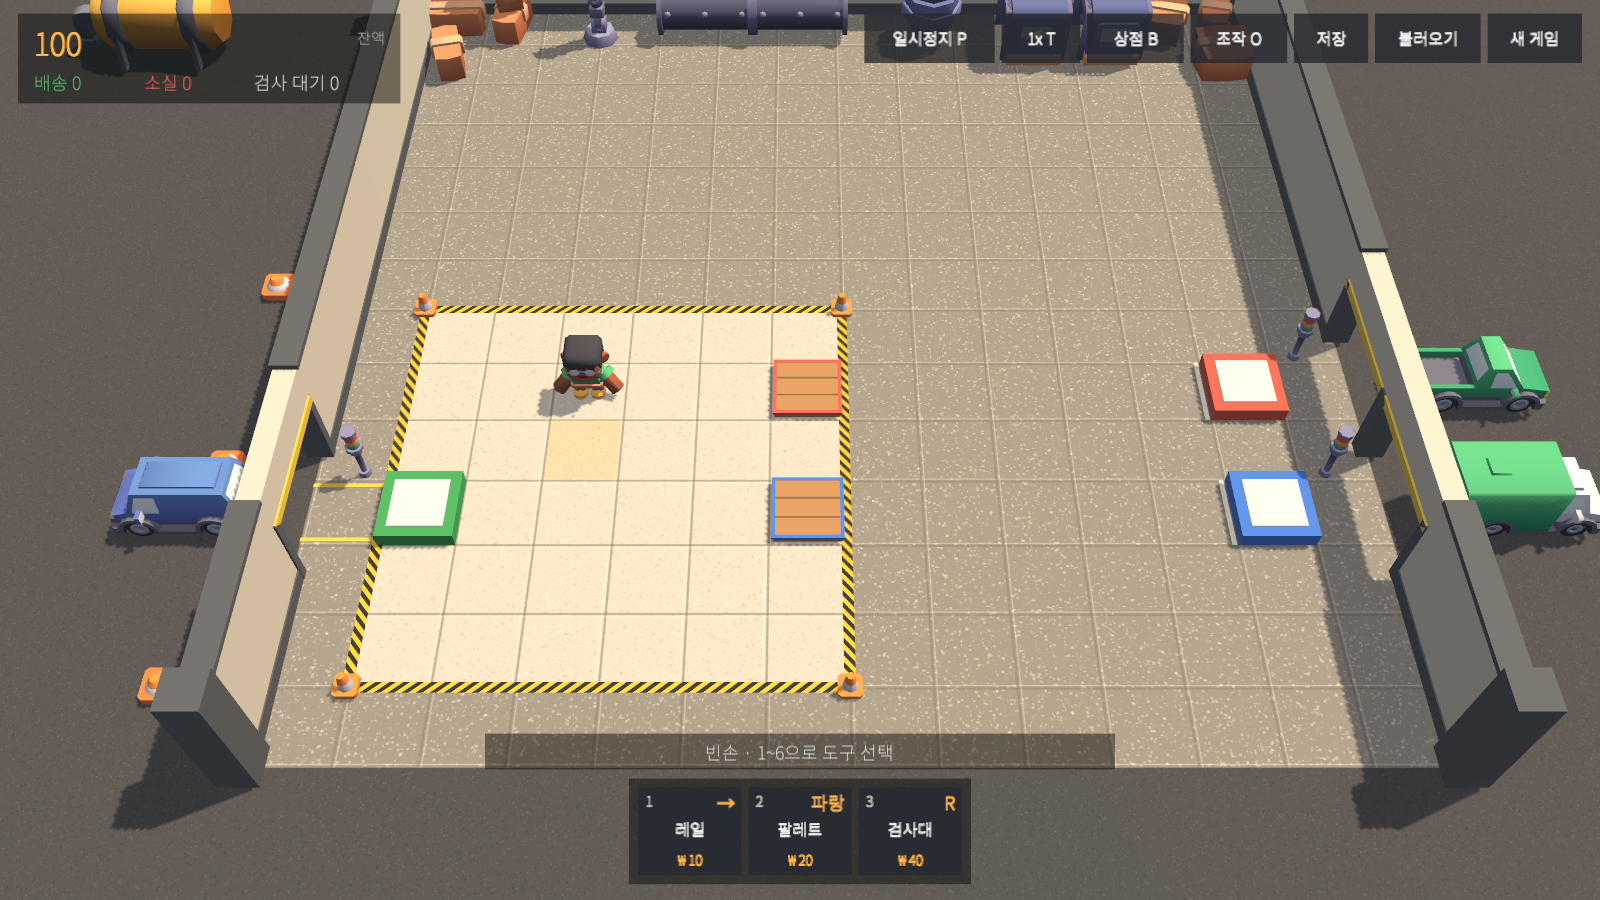
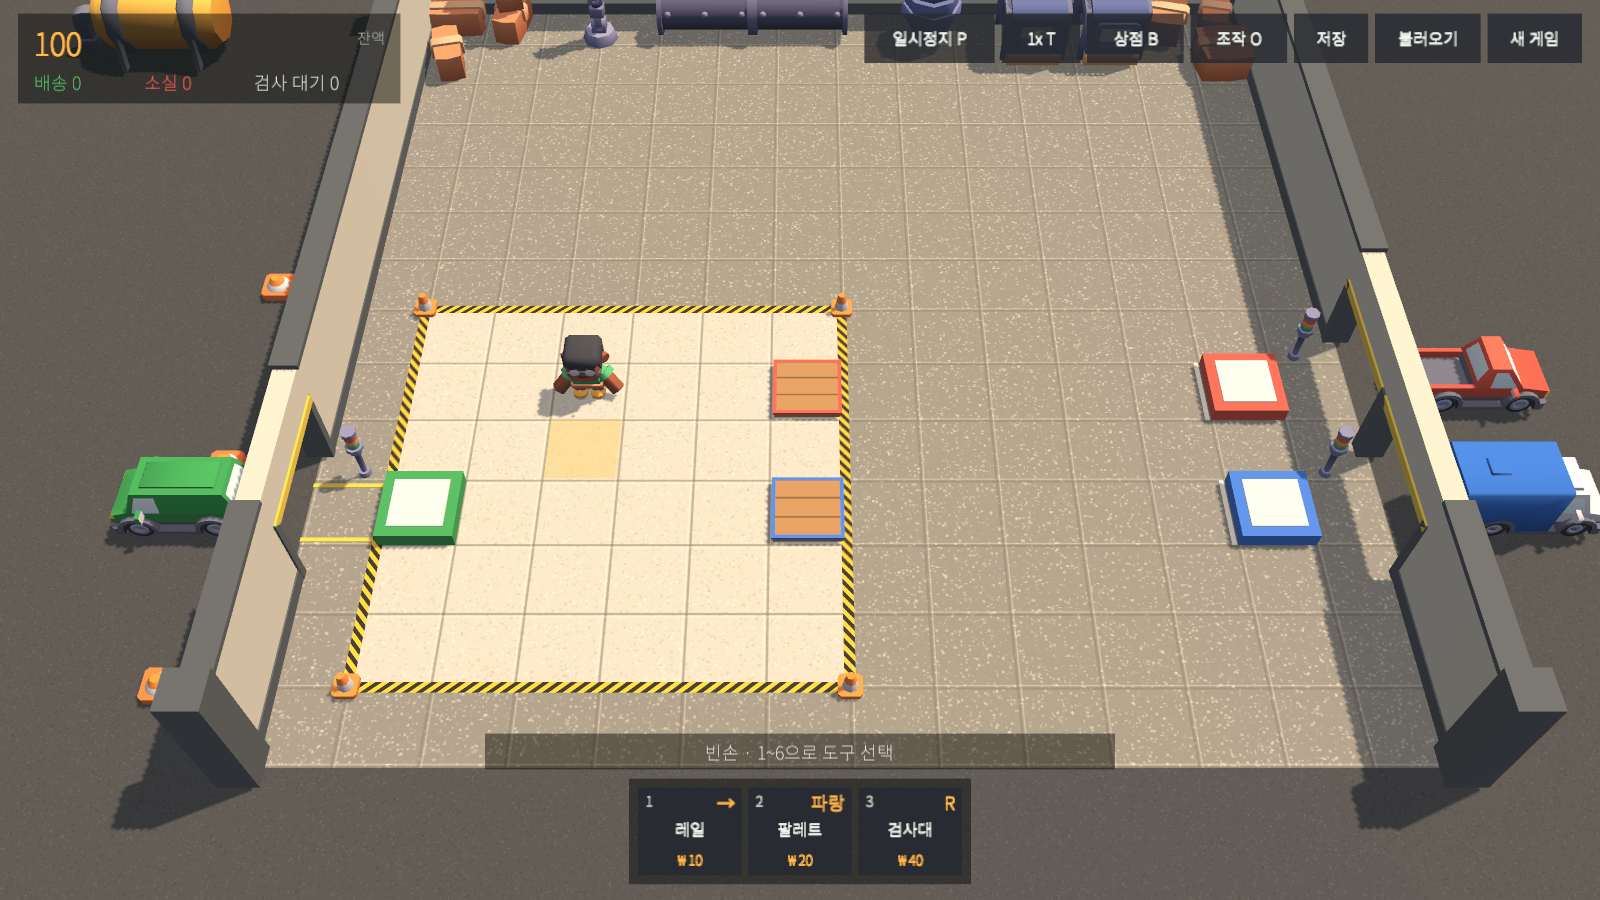
fix(game): pallet pile 2 per layer, vehicles painted in dock colours, clearer cursor
- PalletView: full-size boxes, 2 per layer at x ±0.22, up to 3 layers; TopHeight uses 2 per layer.
- WorldBuilder: inlet van green, outlet delivery blue, return truck red. Car-kit parts share one
  colormap material, so a per-vehicle copy of the colormap repaints only the body paint hue band
  and is used on the body renderer alone (windows, wheels, door untouched). The car-kit colormap
  is imported readable and uncompressed for this.
- Cursor alpha pulses 0.35-0.55; red tint for Locked kept.
- CannotPutHere toast: full / demolishing pallet / generic.
- Prompt above a pallet anchored at pile top + 0.3.
- Touch R button reads 색 with a pallet tool, 방향 otherwise.
- Smoke test counts active pile boxes and checks the 2-per-layer position.

Changed region(s): [[0.875, 0.3733, 1.0, 0.5911], [0.0625, 0.4978, 0.1562, 0.5911]]

diff --git a/Assets/Scripts/Game/WorldBuilder.cs b/Assets/Scripts/Game/WorldBuilder.cs
@@ -280,12 +280,12 @@ namespace ParcelFactory.Game
             var docks = Group("Docks");
             // 차량은 벽 밖 출입구 앞에 후진 주차한다(모델 앞 = +z 가정: 뒤가 출입구를 향하도록 yaw).
             // 트럭 도크(스펙 10.1)는 동쪽 벽 출입구 바로 안쪽 칸 (11,2)·(11,4). 좌표는 FactoryGrid에서만 읽는다.
-            Dock(docks, FactoryGrid.InletX, FactoryGrid.InletY, new Color(0.25f, 0.64f, 0.35f), "van", -8.5f, -90f, truck: false);
-            Dock(docks, FactoryGrid.OutletX, FactoryGrid.OutletY, new Color(0.24f, 0.48f, 0.88f), "delivery", 8.6f, 90f, truck: true);
-            Dock(docks, FactoryGrid.ReturnDockX, FactoryGrid.ReturnDockY, new Color(0.85f, 0.35f, 0.29f), "truck", 8.6f, 90f, truck: true);
+            Dock(docks, FactoryGrid.InletX, FactoryGrid.InletY, new Color(0.25f, 0.64f, 0.35f), "van", -8.5f, -90f, truck: false, Hex(0x3FA35A));
+            Dock(docks, FactoryGrid.OutletX, FactoryGrid.OutletY, new Color(0.24f, 0.48f, 0.88f), "delivery", 8.6f, 90f, truck: true, Hex(0x3D7BE0));
+            Dock(docks, FactoryGrid.ReturnDockX, FactoryGrid.ReturnDockY, new Color(0.85f, 0.35f, 0.29f), "truck", 8.6f, 90f, truck: true, Hex(0xD95A4A));
         }
 
-        private void Dock(Transform parent, int gx, int gy, Color color, string vehicle, float vehicleX, float vehicleYaw, bool truck)
+        private void Dock(Transform parent, int gx, int gy, Color color, string vehicle, float vehicleX, float vehicleYaw, bool truck, Color bodyColor)
         {
             var tile = Grid3D.Tile(gx, gy);
             var d = new GameObject("Dock_" + vehicle).transform;
@@ -295,7 +295,8 @@ namespace ParcelFactory.Game
             // 신호등은 격자 밖(격자 가장자리와 벽 사이 여백)에 둔다. 격자 안은 전부 걸을 수 있는 바닥이다(스펙 10.3).
             float side = Mathf.Sign(vehicleX);
             Spawn("warning-traffic", tile + new Vector3(side * 0.85f, 0f, 0.62f), Quaternion.identity, 0.6f, d);
-            Spawn(vehicle, new Vector3(vehicleX, 0f, tile.z), Quaternion.Euler(0f, vehicleYaw, 0f), 0.64f, d);
+            var car = Spawn(vehicle, new Vector3(vehicleX, 0f, tile.z), Quaternion.Euler(0f, vehicleYaw, 0f), 0.64f, d);
+            TintVehicle(car, vehicle, bodyColor);
 
             if (truck)
             {
@@ -315,6 +316,68 @@ namespace ParcelFactory.Game
                     Box("Lane", d, new Vector3(cx, 0f, tile.z + 0.42f), new Vector3(len, 0.012f, 0.06f), laneMat, castShadow: false);
                 }
             }
+        }
+
+        // ---------------- 차량 도색 ----------------
+
+        /// <summary>Kenney car-kit 차체의 원래 도장 색(팔레트 텍스처에서 차체 면적이 가장 큰 유채색). 이 색상(hue) 띠만 다시 칠한다.</summary>
+        private static readonly Dictionary<string, Color32> BodyPaint = new Dictionary<string, Color32>
+        {
+            { "van", new Color32(101, 142, 214, 255) },      // 파랑
+            { "delivery", new Color32(90, 196, 135, 255) },  // 초록
+            { "truck", new Color32(61, 166, 121, 255) },     // 초록
+        };
+
+        private static readonly Dictionary<string, Texture2D> paintCache = new Dictionary<string, Texture2D>();
+
+        /// <summary>
+        /// 차량을 도크 색으로 칠한다. car-kit은 모든 부품(차체·바퀴·문)이 colormap 머티리얼 하나를 공유하고
+        /// 창문·등·범퍼도 차체 메시 안의 팔레트 칸이라 _BaseColor 곱셈으로는 창문까지 물든다.
+        /// 그래서 colormap을 복사해 차체 도장색과 같은 색상 띠(채도 0.3 이상)의 픽셀만 목표 색으로 바꾸고(명암 비율 유지),
+        /// 그 텍스처를 쓰는 머티리얼 인스턴스를 가장 큰 렌더러(차체) 하나에만 준다. 바퀴·문·창문(무채색)은 그대로다.
+        /// </summary>
+        private static void TintVehicle(GameObject car, string key, Color target)
+        {
+            if (!BodyPaint.TryGetValue(key, out var paint)) return;
+            Renderer body = null;
+            float best = -1f;
+            foreach (var r in car.GetComponentsInChildren<Renderer>())
+            {
+                float v = r.bounds.size.x * r.bounds.size.y * r.bounds.size.z;
+                if (v > best) { best = v; body = r; }
+            }
+            if (body == null || body.sharedMaterial == null) return;
+            var src = body.sharedMaterial.GetTexture("_BaseMap") as Texture2D;
+            if (src == null || !src.isReadable) return;
+            string cacheKey = key + ":" + ColorUtility.ToHtmlStringRGB(target);
+            if (!paintCache.TryGetValue(cacheKey, out var tex) || tex == null)
+            {
+                tex = Repaint(src, paint, target);
+                tex.name = "colormap-" + cacheKey;
+                paintCache[cacheKey] = tex;
+            }
+            var mat = new Material(body.sharedMaterial) { name = "VehicleBody-" + key };
+            mat.SetTexture("_BaseMap", tex);
+            body.sharedMaterial = mat;
+        }
+
+        private static Texture2D Repaint(Texture2D src, Color32 paint, Color target)
+        {
+            Color.RGBToHSV(paint, out float ph, out _, out float pv);
+            Color.RGBToHSV(target, out float th, out float ts, out float tv);
+            var px = src.GetPixels32();
+            for (int i = 0; i < px.Length; i++)
+            {
+                Color.RGBToHSV(px[i], out float h, out float sat, out float v);
+                float dh = Mathf.Abs(h - ph); dh = Mathf.Min(dh, 1f - dh);
+                if (sat < 0.3f || dh > 0.06f) continue;
+                var c = Color.HSVToRGB(th, ts, Mathf.Clamp01(v * tv / Mathf.Max(0.01f, pv)));
+                px[i] = new Color32((byte)(c.r * 255f), (byte)(c.g * 255f), (byte)(c.b * 255f), px[i].a);
+            }
+            var tex = new Texture2D(src.width, src.height, TextureFormat.RGBA32, true) { filterMode = src.filterMode, wrapMode = src.wrapMode };
+            tex.SetPixels32(px);
+            tex.Apply(true, true);
+            return tex;
         }
 
         // ---------------- 해금 부지 ----------------

diff --git a/Assets/Scripts/Game/HudController.cs b/Assets/Scripts/Game/HudController.cs
@@ -20,6 +20,7 @@ namespace ParcelFactory.Game
         private readonly List<Text> slotPrices = new List<Text>();
         private readonly List<Text> slotKeys = new List<Text>();
         private float toastUntil;
+        private Text touchRotateLabel;
         private InputController input;
 
         private static readonly Dictionary<CellType, string> Names = new Dictionary<CellType, string>
@@ -46,6 +47,7 @@ namespace ParcelFactory.Game
             BuildTopLeft(); BuildTopRight(); BuildHotbar(); BuildPrompt(); BuildStatus(); BuildToast(); BuildHelp();
             if (TouchMode) BuildTouchControls();
             input.ToolChanged += RefreshHotbar;
+            input.ToolChanged += RefreshTouchLabels;
             input.Interacted += OnInteracted;
             input.DemolishRequested += r => { if (r != BuildResult.Ok) Toast(DemolishMessage(r)); };
             input.TogglePause += () => { boot.Session.Paused = !boot.Session.Paused; };
@@ -157,6 +159,8 @@ namespace ParcelFactory.Game
             var e = UiKit.Button("TouchE", touchButtons, "E", new Vector2(84f, 84f), () => { if (input.UiBlocksInput) return; input.Interact(); }, UiKit.Accent, UiKit.AccentFg, 20, new Vector2(1f, 0f)); e.GetComponent<RectTransform>().anchoredPosition = new Vector2(-50f, 50f);
             var x = UiKit.Button("TouchX", touchButtons, "해체", new Vector2(62f, 62f), () => { if (input.UiBlocksInput) return; input.Demolish(); }, new Color(0.55f, 0.2f, 0.16f, 0.92f), null, 14, new Vector2(1f, 0f)); x.GetComponent<RectTransform>().anchoredPosition = new Vector2(-140f, 40f);
             var r = UiKit.Button("TouchR", touchButtons, "방향", new Vector2(62f, 62f), () => { if (input.UiBlocksInput) return; input.RotateTool(); }, null, null, 14, new Vector2(1f, 0f)); r.GetComponent<RectTransform>().anchoredPosition = new Vector2(-140f, 118f);
+            touchRotateLabel = r.GetComponentInChildren<Text>();
+            RefreshTouchLabels();
             hotbar.anchoredPosition = new Vector2(0f, 14f);
         }
 
@@ -193,7 +197,7 @@ namespace ParcelFactory.Game
             switch (r)
             {
                 case InteractResult.NoFloor: Toast("바닥이 없는 곳입니다"); break;
-                case InteractResult.CannotPutHere: Toast(FacingPallet() ? "팔레트가 가득 찼습니다" : "여기에는 내려놓을 수 없습니다"); break;
+                case InteractResult.CannotPutHere: Toast(CannotPutMessage()); break;
                 case InteractResult.NoTool: Toast("도구를 고르세요 (1~6)"); break;
                 case InteractResult.Locked: Toast("아직 사지 않은 부지입니다"); break;
                 case InteractResult.Occupied: Toast("이미 무언가 있습니다"); break;
@@ -203,11 +207,32 @@ namespace ParcelFactory.Game
             }
         }
 
-        private bool FacingPallet()
+        private string CannotPutMessage()
         {
             var s = GameBootstrap.Instance.Session;
             var (fx, fy) = s.Worker.FacingTile();
-            return s.Grid.InBounds(fx, fy) && s.Grid.Get(fx, fy).Type == CellType.Pallet;
+            var c = s.Grid.InBounds(fx, fy) ? s.Grid.Get(fx, fy) : null;
+            if (c != null && c.Type == CellType.Pallet)
+            {
+                if (c.IsPalletFull) return "팔레트가 가득 찼습니다";
+                if (c.Demolishing) return "해체 중인 팔레트입니다";
+            }
+            return "여기에는 내려놓을 수 없습니다";
+        }
+
+        /// <summary>프롬프트를 띄울 월드 위치. 팔레트는 더미 꼭대기 + 0.3(3층 더미도 가리지 않게), 그 외는 칸 위 0.9.</summary>
+        public static Vector3 PromptAnchor(GameSession s, int x, int y)
+        {
+            var c = s.Grid.Get(x, y);
+            float h = c.Type == CellType.Pallet ? PackageViews.TopHeight(c) + 0.3f : 0.9f;
+            return Grid3D.Tile(x, y) + new Vector3(0f, h, 0f);
+        }
+
+        private void RefreshTouchLabels()
+        {
+            if (touchRotateLabel == null) return;
+            var t = input.SelectedTool;
+            touchRotateLabel.text = t.HasValue && t.Value.Type == CellType.Pallet ? "색" : "방향";
         }
 
         public void RefreshHotbar()
@@ -268,7 +293,7 @@ namespace ParcelFactory.Game
             }
             if (label != null && boot.World != null && boot.World.MainCamera != null)
             {
-                var sp = boot.World.MainCamera.WorldToScreenPoint(Grid3D.Tile(fx, fy) + new Vector3(0f, 0.9f, 0f));
+                var sp = boot.World.MainCamera.WorldToScreenPoint(PromptAnchor(s, fx, fy));
                 var canvasRt = Root;
                 RectTransformUtility.ScreenPointToLocalPointInRectangle(canvasRt, sp, null, out var lp);
                 prompt.anchoredPosition = lp + canvasRt.rect.size * 0.5f;

diff --git a/Assets/Scripts/Game/CellViews.cs b/Assets/Scripts/Game/CellViews.cs
@@ -71,7 +71,8 @@ namespace ParcelFactory.Game
         }
     }
 
-    /// <summary>팔레트 칸의 더미를 매 프레임 Cell.Pallet에서 그린다(풀링). 더미 택배는 Sim.Packages에 없다.</summary>
+    /// <summary>팔레트 칸의 더미를 매 프레임 Cell.Pallet에서 그린다(풀링). 층당 2개(x ±0.22), 최대 3층(y 0.12/0.52/0.92).
+    /// 더미 택배는 Sim.Packages에 없다.</summary>
     public sealed class PalletView : MonoBehaviour
     {
         public static readonly Color Wood = new Color(0xB9 / 255f, 0x8A / 255f, 0x5C / 255f);
@@ -83,52 +84,23 @@ namespace ParcelFactory.Game
         private Transform pile;
         private readonly List<GameObject> boxes = new List<GameObject>();
 
-        public int ShownCount { get; private set; }
-
-        private static float pileScale = -1f;
-
-        /// <summary>box-small(0.8배)은 폭이 약 0.38이라 0.26 간격 3개가 한 덩어리로 붙어 보인다.
-        /// 실제 렌더 크기를 한 번 재서 폭 ≤ 0.24, 높이 ≤ 0.38(층 0.4 안)이 되게 줄인다.</summary>
-        private static float PileScale(GameObject box)
-        {
-            if (pileScale > 0f) return pileScale;
-            var rs = box.GetComponentsInChildren<Renderer>(true);
-            var b = new Bounds();
-            bool any = false;
-            foreach (var r in rs)
-            {
-                if (r.gameObject.name == "Stamp") continue;
-                if (!any) { b = r.bounds; any = true; } else b.Encapsulate(r.bounds);
-            }
-            if (!any || b.size.x <= 0f) return 1f;
-            float w = Mathf.Max(b.size.x, b.size.z), h = b.size.y;
-            pileScale = Mathf.Min(1f, 0.24f / w, h > 0f ? 0.38f / h : 1f);
-            return pileScale;
-        }
-
         private void LateUpdate()
         {
             if (Cell == null) return;
             if (pile == null) { pile = new GameObject("Pile").transform; pile.SetParent(transform, false); }
             int n = Cell.Pallet.Count;
-            while (boxes.Count < n)
-            {
-                var b = PackageViews.MakeBox(Catalog, pile);
-                b.transform.localScale = Vector3.one * PileScale(b);
-                boxes.Add(b);
-            }
+            while (boxes.Count < n) boxes.Add(PackageViews.MakeBox(Catalog, pile)); // 레일·운반 상자와 같은 크기(box-small 0.8배)
             for (int i = 0; i < boxes.Count; i++)
             {
                 bool on = i < n;
                 if (boxes[i].activeSelf != on) boxes[i].SetActive(on);
                 if (!on) continue;
                 int layer = i / PackageViews.PalletPerLayer, slot = i % PackageViews.PalletPerLayer;
-                boxes[i].transform.localPosition = new Vector3((slot - 1) * 0.26f, PackageViews.SurfaceHeight(CellType.Pallet) + PackageViews.PalletLayerHeight * layer, 0f);
+                boxes[i].transform.localPosition = new Vector3(slot == 0 ? -0.22f : 0.22f, PackageViews.SurfaceHeight(CellType.Pallet) + PackageViews.PalletLayerHeight * layer, 0f);
                 boxes[i].transform.localRotation = Quaternion.identity;
                 var p = Cell.Pallet[i];
                 PackageViews.SetStamp(boxes[i], p.Inspected && p.Rejected);
             }
-            ShownCount = n;
         }
     }
 

diff --git a/Assets/Scripts/Game/WorkerView.cs b/Assets/Scripts/Game/WorkerView.cs
@@ -21,8 +21,8 @@ namespace ParcelFactory.Game
         private string currentClip;
         private bool hasHolding;
 
-        private static readonly Color CursorTint = new Color(1f, 0.83f, 0.4f, 0.35f);
-        private static readonly Color RefusedTint = new Color(0.95f, 0.32f, 0.26f, 0.35f);
+        private static readonly Color CursorTint = new Color(1f, 0.83f, 0.4f, 0.45f);
+        private static readonly Color RefusedTint = new Color(0.95f, 0.32f, 0.26f, 0.45f);
 
         private const string IdleClip = "idle", WalkClip = "walk", HoldingClip = "holding-both";
 
@@ -113,7 +113,7 @@ namespace ParcelFactory.Game
                 cursor.position = Grid3D.Tile(fx, fy) + new Vector3(0f, 0.03f + PackageViews.TopHeight(cell), 0f);
                 bool refused = boot.Input != null && ws.Preview(boot.Input.SelectedTool) == InteractResult.Locked;
                 var c = refused ? RefusedTint : CursorTint;
-                c.a = 0.22f + 0.16f * Mathf.Sin(Time.time * 6f);
+                c.a = 0.45f + 0.10f * Mathf.Sin(Time.time * 6f); // 0.35~0.55: 어두운 잠긴 바닥 위에서도 보이게
                 cursorRenderer.material.SetColor("_BaseColor", c);
             }
         }

diff --git a/Assets/Tests/Game/BootSmokeTests.cs b/Assets/Tests/Game/BootSmokeTests.cs
@@ -53,7 +53,14 @@ namespace ParcelFactory.Game.Tests
                 for (int i = 0; i < 3; i++)
                     Assert.IsTrue(boot.Session.Sim.PutOnPallet(factory.Create(9000 + i, 5, 2, ParcelFactory.Core.Direction.East), 5, 2));
                 yield return null;
-                Assert.AreEqual(3, pv.ShownCount, "pallet pile not drawn");
+                var pileRoot = pallet.transform.Find("Pile");
+                Assert.IsNotNull(pileRoot, "pallet pile root missing");
+                int activeBoxes = 0;
+                foreach (Transform b in pileRoot) if (b.gameObject.activeSelf) activeBoxes++;
+                Assert.AreEqual(3, activeBoxes, "pallet pile not drawn");
+                // 층당 2개: 세 번째 상자는 2층(y 0.52)
+                Assert.AreEqual(0.52f, pileRoot.GetChild(2).localPosition.y, 1e-3f);
+                Assert.AreEqual(-0.22f, pileRoot.GetChild(2).localPosition.x, 1e-3f);
                 Assert.IsNotNull(FindCellView("Pallet", 5, 4), "pallet view at (5,4) not created");
                 // 트럭 도크 슬래브는 (11,2)·(11,4) 칸 위.
                 var outletSlab = GameObject.Find("World/Docks/Dock_delivery/DockSlab");

diff --git a/Assets/Tests/Game/ScreenshotTests.cs b/Assets/Tests/Game/ScreenshotTests.cs
@@ -216,7 +216,7 @@ namespace ParcelFactory.Game.Tests
             var prompt = boot.Hud.Root.Find("Prompt") as RectTransform;
             if (prompt == null || !prompt.gameObject.activeSelf) return;
             var (fx, fy) = boot.Session.Worker.FacingTile();
-            var sp = cam.WorldToScreenPoint(Grid3D.Tile(fx, fy) + new Vector3(0f, 0.9f, 0f));
+            var sp = cam.WorldToScreenPoint(HudController.PromptAnchor(boot.Session, fx, fy));
             RectTransformUtility.ScreenPointToLocalPointInRectangle(boot.Hud.Root, sp, cam, out var lp);
             prompt.anchoredPosition = lp + boot.Hud.Root.rect.size * 0.5f;
         }

diff --git a/Assets/Scripts/Game/PackageViews.cs b/Assets/Scripts/Game/PackageViews.cs
@@ -25,9 +25,9 @@ namespace ParcelFactory.Game
             }
         }
 
-        /// <summary>팔레트 더미 한 층의 높이. 상자는 층당 3개(x −0.26/0/+0.26).</summary>
+        /// <summary>팔레트 더미 한 층의 높이. 상자는 층당 2개(x ±0.22), 용량 6 = 3층.</summary>
         public const float PalletLayerHeight = 0.4f;
-        public const int PalletPerLayer = 3;
+        public const int PalletPerLayer = 2;
 
         /// <summary>칸 위 표시물(커서 등)이 놓일 높이. 팔레트는 더미 꼭대기, 바닥 칸은 0.</summary>
         public static float TopHeight(Cell c)
